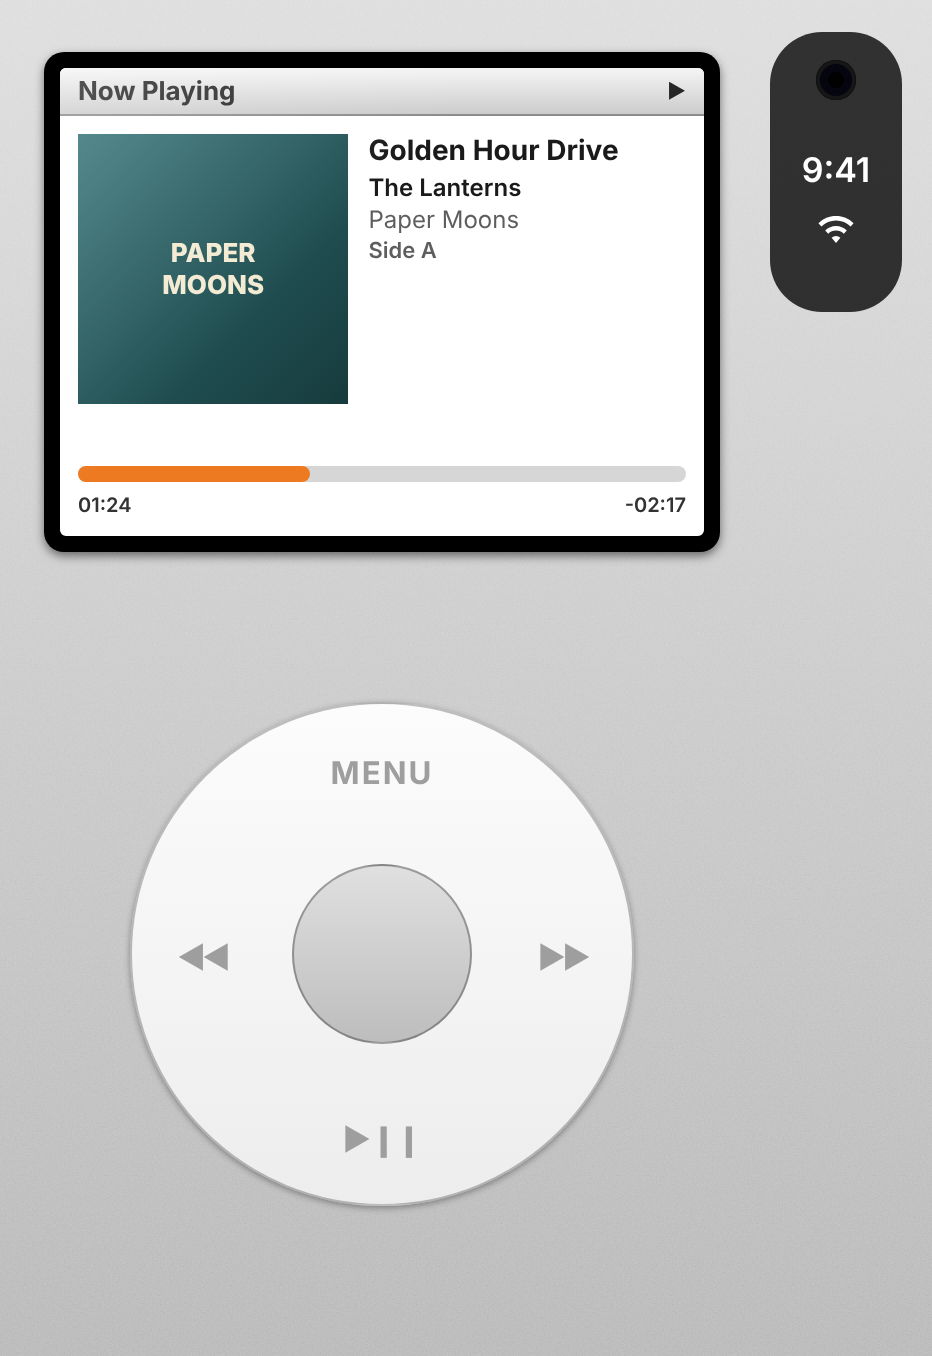
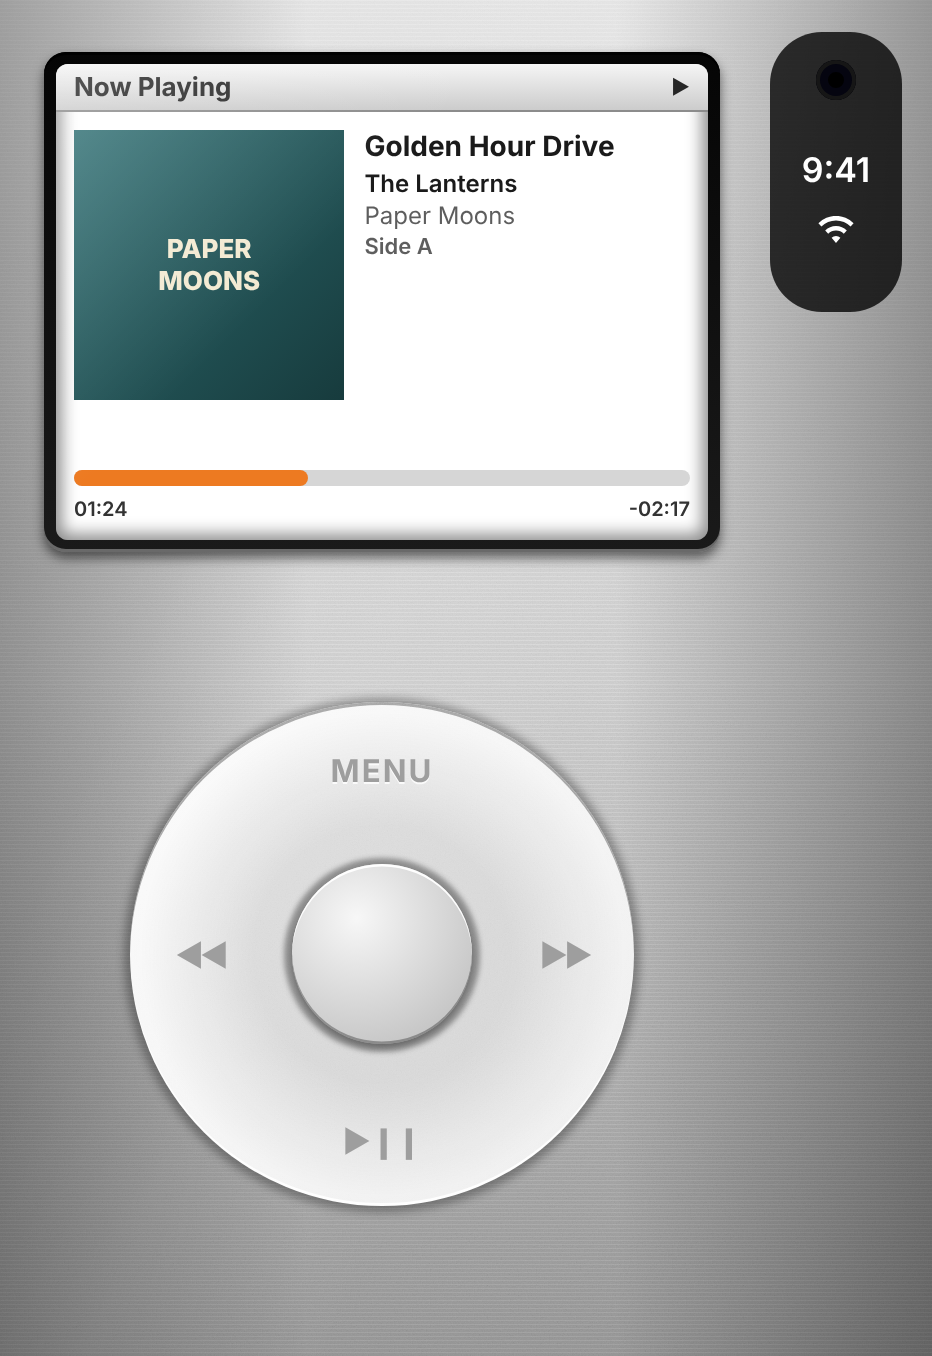
Give the click-wheel skins depth
Brushed metal bodies that curve away at the sides, a wheel recessed
into the face with a lit lip and a slight dish, printed lettering, and
a domed middle button that sinks when pressed.

Claude-Session: https://claude.ai/code/session_015CNmSEpanpmujmbPK8yXHv

diff --git a/TapeDeck/MenuPlayerView.swift b/TapeDeck/MenuPlayerView.swift
@@ -369,7 +369,22 @@ struct MenuPlayerView: View {
             .background(
                 ZStack {
                     LinearGradient(colors: skin.wheelBody, startPoint: .top, endPoint: .bottom)
-                    PlasticGrain(strength: 0.3)
+                    // Brushed metal: fine lines along the grain
+                    Canvas { context, size in
+                        var y: CGFloat = 0.5
+                        while y < size.height {
+                            let line = Path(CGRect(x: 0, y: y, width: size.width, height: 0.5))
+                            context.fill(line, with: .color(.white.opacity(skin == .wheelSilver ? 0.20 : 0.045)))
+                            y += 2
+                        }
+                    }
+                    PlasticGrain(strength: 0.25)
+                    // The body curves away at its sides and is lit from above
+                    LinearGradient(colors: [Color.black.opacity(0.30), .clear, .clear, Color.black.opacity(0.34)],
+                                   startPoint: .leading, endPoint: .trailing)
+                    LinearGradient(colors: [Color.white.opacity(0.14), .clear, Color.black.opacity(0.20)],
+                                   startPoint: .top, endPoint: .bottom)
+                    GlassShimmer(strength: 0.45)
                     statusPlate(rail: rail, leading: railLeading)
                 }
                 .ignoresSafeArea()
@@ -378,28 +393,65 @@ struct MenuPlayerView: View {
     }
 
     private func wheel(diameter: CGFloat) -> some View {
-        ZStack {
+        let pale = skin == .wheelSilver
+        // Lettering is printed on the wheel, with a hair of shadow or light under it
+        let edge = pale ? Color.white.opacity(0.8) : Color.black.opacity(0.7)
+        return ZStack {
+            // The wheel sits a little below the face of the body
             Circle()
-                .fill(LinearGradient(colors: skin.wheelRing, startPoint: .top, endPoint: .bottom))
-                .overlay(Circle().strokeBorder(Color.black.opacity(0.25), lineWidth: 1))
-                .shadow(color: .black.opacity(0.35), radius: 3, y: 1)
-            Text("MENU")
-                .font(.system(size: diameter * 0.062, weight: .bold))
-                .tracking(1)
-                .offset(y: -diameter * 0.37)
-            Image(systemName: "backward.end.alt.fill")
-                .font(.system(size: diameter * 0.06))
-                .offset(x: -diameter * 0.37)
-            Image(systemName: "forward.end.alt.fill")
-                .font(.system(size: diameter * 0.06))
-                .offset(x: diameter * 0.37)
-            Image(systemName: "playpause.fill")
-                .font(.system(size: diameter * 0.06))
-                .offset(y: diameter * 0.37)
+                .fill(Color.black.opacity(pale ? 0.30 : 0.7))
+                .padding(-2.5)
+                .blur(radius: 2)
+            // The ring: matte plastic, lit from the top left
             Circle()
-                .fill(LinearGradient(colors: skin.wheelCentre, startPoint: .top, endPoint: .bottom))
-                .overlay(Circle().strokeBorder(Color.black.opacity(0.3), lineWidth: 1))
+                .fill(LinearGradient(colors: skin.wheelRing, startPoint: .topLeading, endPoint: .bottomTrailing))
+            PlasticGrain(strength: 0.22).clipShape(Circle())
+            // It is very slightly dished: darker toward the middle, lit at the rim
+            Circle()
+                .fill(RadialGradient(colors: [Color.black.opacity(0.12), .clear, Color.white.opacity(pale ? 0.5 : 0.07)],
+                                     center: .center, startRadius: diameter * 0.18, endRadius: diameter * 0.5))
+            // The lip of the recess: shadowed above, catching light below
+            Circle()
+                .strokeBorder(LinearGradient(colors: [Color.black.opacity(pale ? 0.35 : 0.8),
+                                                      Color.white.opacity(pale ? 0.9 : 0.28)],
+                                             startPoint: .top, endPoint: .bottom), lineWidth: 1.5)
+
+            Group {
+                Text("MENU")
+                    .font(.system(size: diameter * 0.062, weight: .bold))
+                    .tracking(1)
+                    .offset(y: -diameter * 0.37)
+                Image(systemName: "backward.end.alt.fill")
+                    .font(.system(size: diameter * 0.06))
+                    .offset(x: -diameter * 0.37)
+                Image(systemName: "forward.end.alt.fill")
+                    .font(.system(size: diameter * 0.06))
+                    .offset(x: diameter * 0.37)
+                Image(systemName: "playpause.fill")
+                    .font(.system(size: diameter * 0.06))
+                    .offset(y: diameter * 0.37)
+            }
+            .shadow(color: edge, radius: 0.3, y: pale ? 0.8 : -0.8)
+
+            // The gap round the middle button
+            Circle()
+                .fill(Color.black.opacity(pale ? 0.35 : 0.75))
+                .frame(width: diameter * 0.385, height: diameter * 0.385)
+                .blur(radius: 1.2)
+            // The middle button: a shallow dome
+            Circle()
+                .fill(RadialGradient(colors: [skin.wheelCentre[0], skin.wheelCentre[1]],
+                                     center: UnitPoint(x: 0.36, y: 0.30), startRadius: 0,
+                                     endRadius: diameter * 0.24))
+                .overlay(
+                    Circle().strokeBorder(LinearGradient(colors: [Color.white.opacity(pale ? 0.95 : 0.35),
+                                                                  Color.black.opacity(pale ? 0.30 : 0.7)],
+                                                         startPoint: .top, endPoint: .bottom), lineWidth: 1.2)
+                )
                 .frame(width: diameter * 0.36, height: diameter * 0.36)
+                .shadow(color: .black.opacity(pale ? 0.25 : 0.5), radius: 2.5, y: 1.5)
+                // Pressed, it sinks and darkens
+                .scaleEffect(zone == .centre ? 0.975 : 1)
                 .brightness(zone == .centre ? -0.08 : 0)
         }
         .foregroundColor(skin.wheelLettering)

diff --git a/TapeDeck/Skin.swift b/TapeDeck/Skin.swift
@@ -122,8 +122,8 @@ enum Skin: String, CaseIterable, Identifiable {
     /// The button in the middle of the wheel.
     var wheelCentre: [Color] {
         self == .wheelSilver
-            ? [Color(white: 0.88), Color(white: 0.74)]
-            : [Color(white: 0.13), Color(white: 0.07)]
+            ? [Color(white: 0.97), Color(white: 0.72)]
+            : [Color(white: 0.22), Color(white: 0.05)]
     }
 
     /// For the picker in settings.
